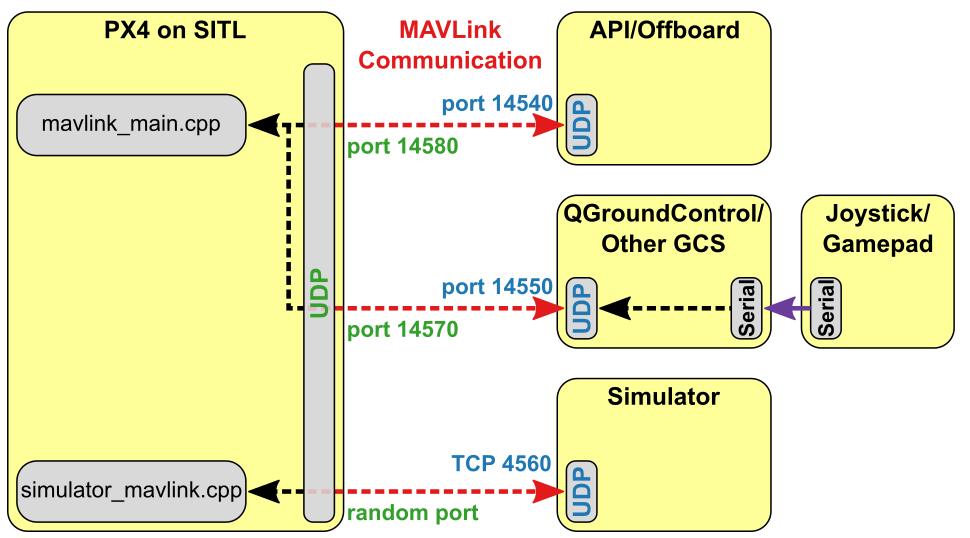
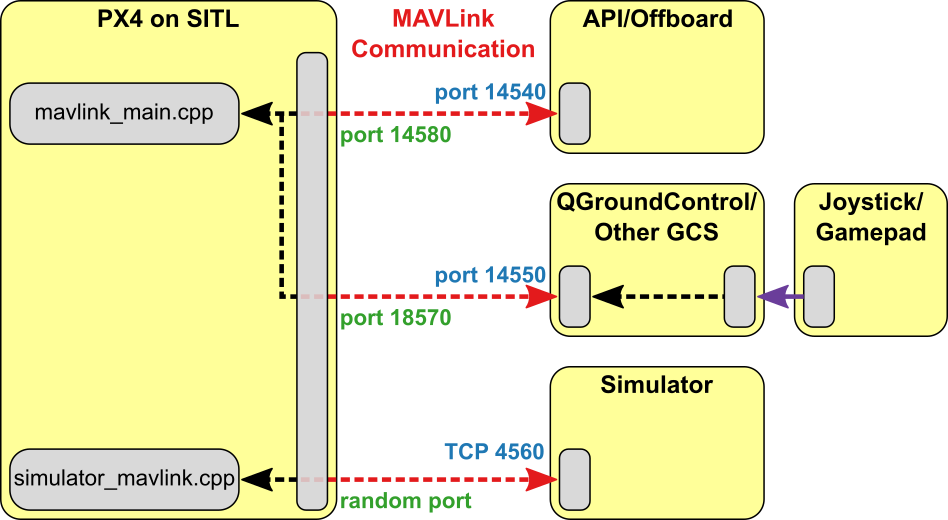
Update simulator overview for ports

Changed region(s): [[0.0, 0.0, 1.0, 1.0], [0.5812, 0.0, 0.8259, 0.2769]]

diff --git a/en/simulation/README.md b/en/simulation/README.md
@@ -87,10 +87,14 @@ The different parts of the system connect via UDP, and can be run on either the 
 * PX4 uses a simulation-specific module to connect to the simulator's local TCP port 4560.
   Simulators then exchange information with PX4 using the [Simulator MAVLink API](#simulator-mavlink-api) described above.
   PX4 on SITL and the simulator can run on either the same computer or different computers on the same network.
+  :::note
+  Simulators can also use the [PX4-FastRTPS Bridge](../middleware/micrortps.md) to directly interact with PX4 (i.e. via [UORB topics](../middleware/uorb.md) rather than MAVLink).
+  This approach *may* used by [Gazebo multi-vehicle simulation](../simulation/multi_vehicle_simulation_gazebo.md#build-and-test-rtps).
+  :::
 * PX4 uses the normal MAVLink module to connect to ground stations (which listen on port 14550) and external developer APIs like MAVSDK or ROS (which listen on port 14540).
-* A serial connection is used to connect Joystick/Gamepad hardware via *QGroundControl*.
+* A serial connection may be used to connect [Joystick/Gamepad](../config/joystick.md) hardware via *QGroundControl*.
 
-![PX4 SITL overview](../../assets/simulation/px4_sitl_overview.png)
+![PX4 SITL overview](../../assets/simulation/px4_sitl_overview.svg)
 
 If you use the normal build system SITL `make` configuration targets (see next section) then both SITL and the Simulator will be launched on the same computer and the ports above will automatically be configured.
 You can configure additional MAVLink UDP connections and otherwise modify the simulation environment in the build configuration and initialisation files.

diff --git a/en/simulation/multi_vehicle_jmavsim.md b/en/simulation/multi_vehicle_jmavsim.md
@@ -9,9 +9,6 @@ It is suitable for testing multi-vehicle support in *QGroundControl* (or the [MA
 [Multi-Vehicle Simulation with Gazebo](../simulation/multi-vehicle-simulation.md) should be used for swarm simulations with many vehicles, or for testing features like computer vision that are only supported by Gazebo.
 :::
 
-:::note
-JMAVSim multi-vehicle simulation works on PX4 v1.8.0 and later.
-:::
 
 ## How to Start Multiple Instances
 
@@ -37,7 +34,7 @@ To start multiple instances (on separate ports):
 
 Ground stations such as *QGroundControl* connect to all instances using the normal UDP port 14550 (all traffic goes to the same port).
 
-Developer APIs such as *MAVSDK* or *MAVROS* connect on the UDP port 14540 (first instance), UDP port 14541 (second instance), and so on.
+Developer APIs such as *MAVSDK* or *MAVROS* connect on the UDP port 14540 (first instance), UDP port 14541 (second instance), and so on. 
 
 ## Additional Resources
 

diff --git a/en/simulation/multi_vehicle_simulation_gazebo.md b/en/simulation/multi_vehicle_simulation_gazebo.md
@@ -27,7 +27,7 @@ Tools/gazebo_sitl_multiple_run.sh [-m <model>] [-n <number_of_vehicles>] [-w <wo
 
  - `<target>`: build target, e.g: `px4_sitl_default` (default), `px4_sitl_rtps`
 
-Each vehicle instance is allocated a unique MAVLink system id (1, 2, 3, etc.) and can be accessed from a unique remote offboard UDP port (14540, 14541, 14542, etc.).
+Each vehicle instance is allocated a unique MAVLink system id (1, 2, 3, etc.) and can be accessed from a unique remote offboard UDP port (14540, 14541, 14542, etc.). 
 
 :::note
 The 255-vehicle limitation occurs because mavlink `MAV_SYS_ID` only supports 255 vehicles in the same network
